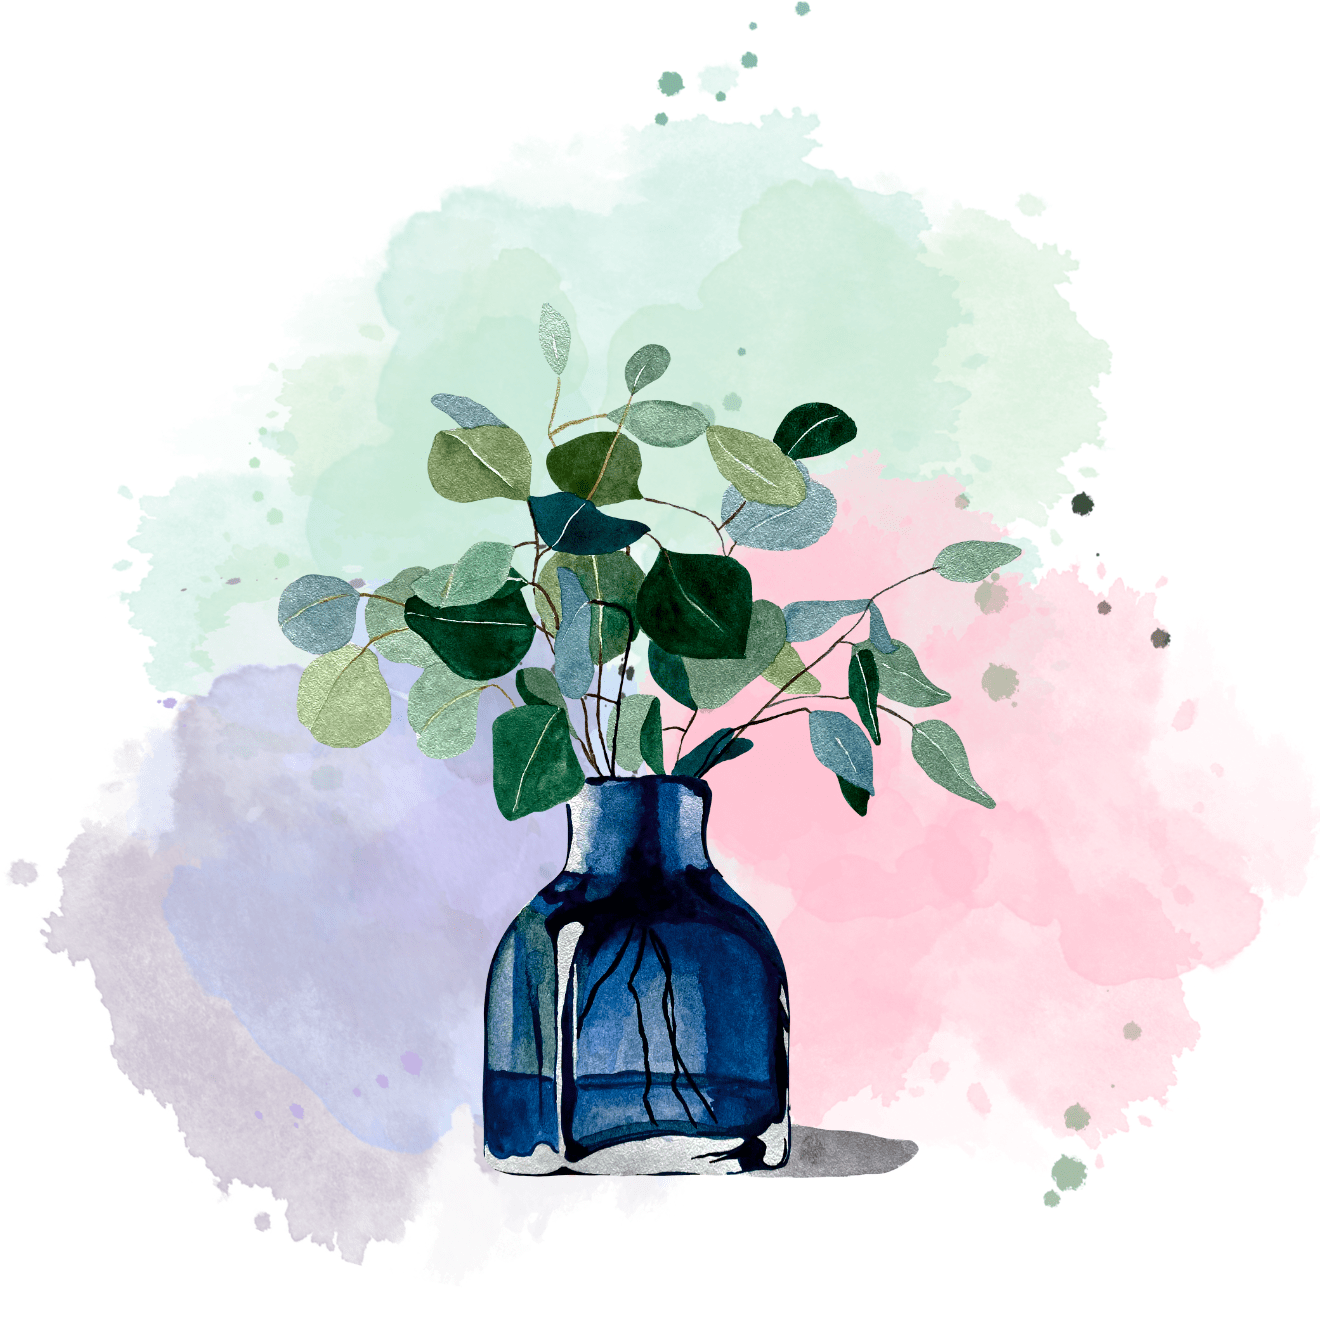
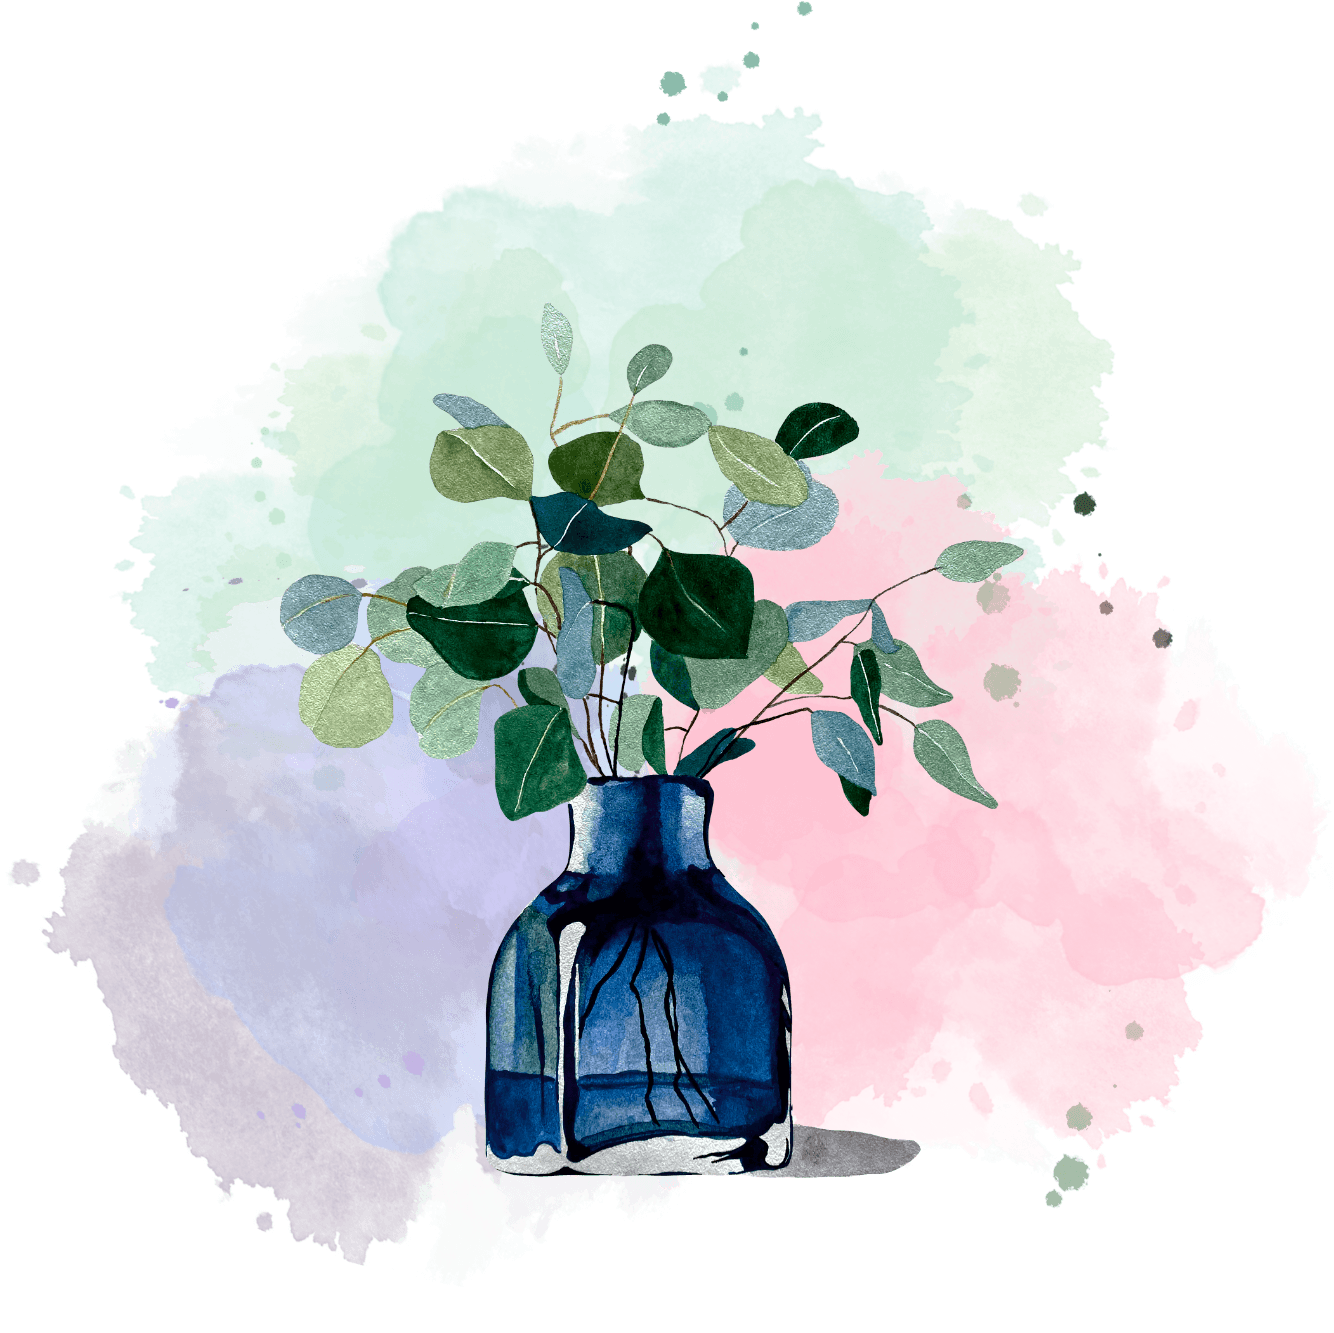
Add bg color and use images with transparent bg

diff --git a/assets/styles.css b/assets/styles.css
@@ -17,6 +17,7 @@
 body {
     margin: 0;
     padding: 0;
+    background-color: #FDFCF7;
 }
 
 .container {
@@ -99,7 +100,7 @@ span {
 }
 
 .divider-image {
-    max-width: 90%;
+    width: 90%;
     padding: 160px 0;
 }
 
@@ -114,6 +115,6 @@ span {
 }
 
 .center-image {
-    max-width: 90%;
+    width: 90%;
     padding: 128px 0;
 }
